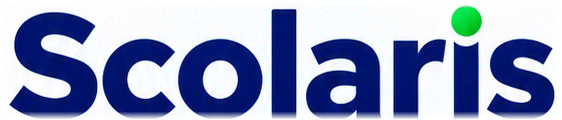
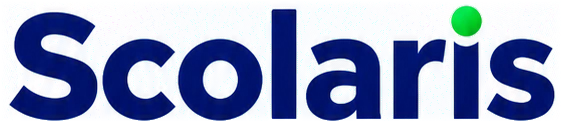
Accueil : bas des lettres de « Scolaris » complet, sans taches
Le découpage du nom estompait les 8 dernières lignes de pixels et laissait
des restes gris en dessous ; le bas des lettres est maintenant entier.

Claude-Session: https://claude.ai/code/session_015mWM4seinABXAPAxyoW6fH

diff --git a/templates/index.html b/templates/index.html
@@ -42,7 +42,7 @@ body{font-family:Poppins,system-ui,-apple-system,"Segoe UI",Roboto,sans-serif;-w
 .illu{left:0;width:100%;top:calc(550 * var(--p) + var(--E) * .5);height:calc(418 * var(--p));
   background:url("{{ url_for('static', filename=img+'illu.webp') }}") center/100% 100% no-repeat}
 .icone{left:calc(50% - 161 * var(--p));top:calc(140 * var(--p) + var(--E) * .5);width:calc(323 * var(--p));height:calc(292 * var(--p))}
-.mot{left:calc(50% - 276 * var(--p));top:calc(430 * var(--p) + var(--E) * .5);width:calc(562 * var(--p));height:calc(120 * var(--p))}
+.mot{left:calc(50% - 276 * var(--p));top:calc(430 * var(--p) + var(--E) * .5);width:calc(562 * var(--p));height:calc(122 * var(--p))}
 
 /* ----- bas : titre, texte, boutons, atouts, vague ----- */
 .bas{left:0;right:0;bottom:0;height:calc(878 * var(--p))}
@@ -103,7 +103,7 @@ h1{width:calc(852 * var(--p));margin-left:calc(-426 * var(--p));bottom:calc(810 
   <div class="deco g" aria-hidden="true"></div><div class="deco d" aria-hidden="true"></div>
   <div class="illu" role="img" aria-label="Livres, toque de diplômé, crayons et école"></div>
   <img class="icone" src="{{ url_for('static', filename=img+'icone.webp') }}" width="323" height="292" alt="">
-  <img class="mot" src="{{ url_for('static', filename=img+'mot.webp') }}" width="562" height="120" alt="Scolaris">
+  <img class="mot" src="{{ url_for('static', filename=img+'mot.webp') }}" width="562" height="122" alt="Scolaris">
   <p class="cache">La scolarité, sans impayés</p>
  </div>
 
